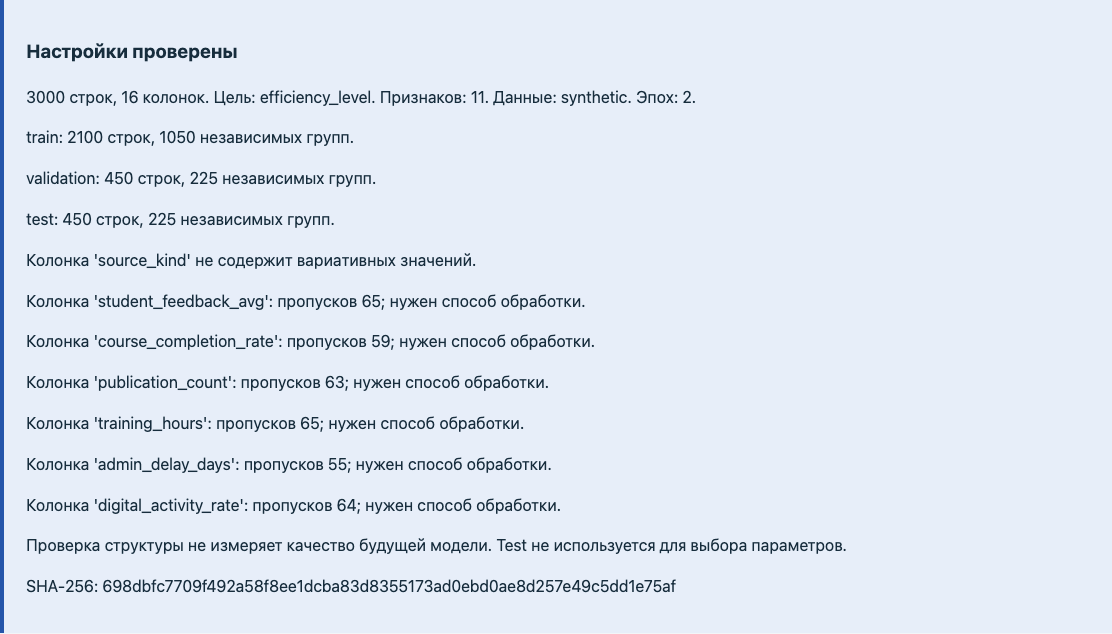
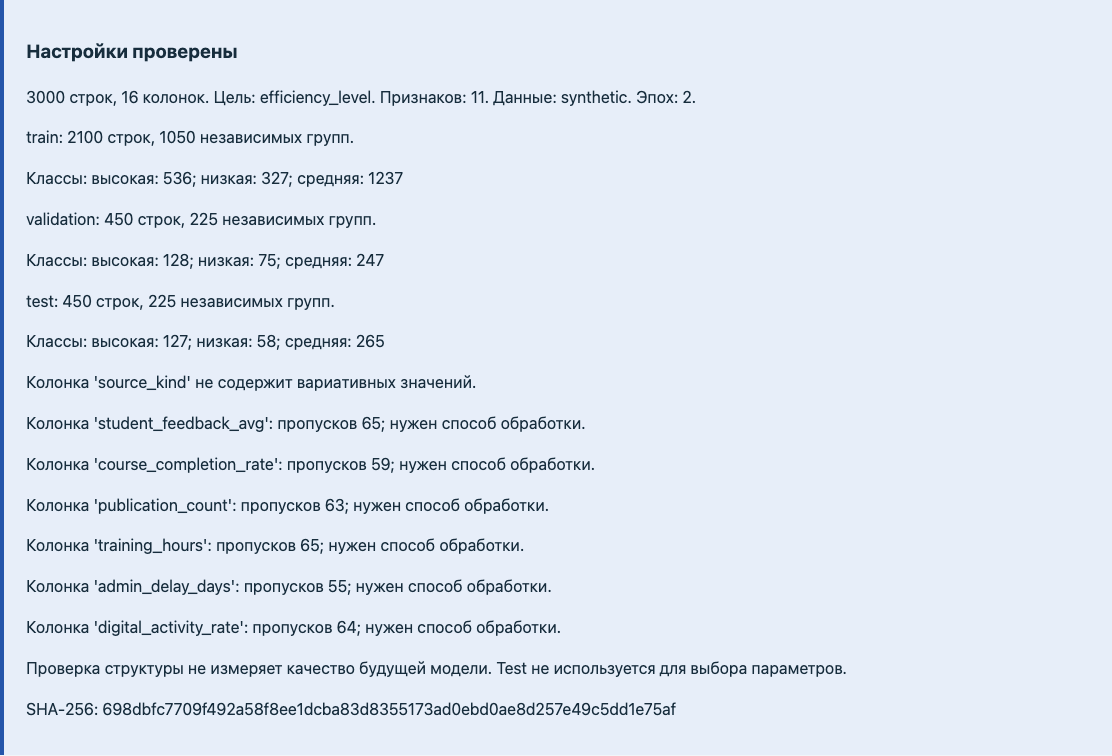
Проверить покрытие классов историю и управление местом в Chrome

diff --git a/university_analytics/web/static/app.css b/university_analytics/web/static/app.css
@@ -9,3 +9,5 @@
 .workspace>.panel{min-width:0}.panel{overflow-wrap:anywhere}#job-metrics{max-width:100%;overflow-x:auto}@media(max-width:800px){.workspace{grid-template-columns:minmax(0,1fr)}}
 
 #my-jobs p{display:flex;gap:12px;flex-wrap:wrap;align-items:center}
+#storage-panel label { display: flex; align-items: flex-start; gap: .6rem; }
+#storage-confirm { width: auto; flex: 0 0 auto; margin-top: .35rem; }

diff --git a/scripts/verify_browser.py b/scripts/verify_browser.py
@@ -83,6 +83,7 @@ def verify(app_python, output):
                     page.get_by_role('button',name='Проверить настройки',exact=True).click()
                     expect(page.locator('#preflight-result')).to_contain_text('Настройки проверены',timeout=30000)
                     assert 'train: 2100 строк' in page.locator('#preflight-result').inner_text()
+                    assert 'Классы:' in page.locator('#preflight-result').inner_text()
                     assert context.request.get(url+'/api/jobs').json()['jobs']==[]
                     checks.append('contract_and_split_preflight_without_job');shot('preflight-desktop.png','#preflight-result')
                     page.get_by_role('button',name='Начать обучение',exact=True).click()
@@ -146,11 +147,25 @@ def verify(app_python, output):
                                   'error':'Искусственная метаданная для проверки страниц, не результат обучения.',
                                   'progress':0,'epochs':2,'created_at':(datetime.now(timezone.utc)-timedelta(days=2,minutes=index)).isoformat()}
                         (directory/'status.json').write_text(json.dumps(contents))
+                    damaged_id=uuid.uuid4().hex;damaged=target/'.local/gui-jobs'/damaged_id;damaged.mkdir()
+                    (damaged/'status.json').write_text('{broken fixture')
+                    assert context.request.get(url+'/api/jobs/'+damaged_id).status==404
+                    assert (damaged/'status.json').read_text()=='{broken fixture'
+                    checks.append('damaged_metadata_preserved_without_breaking_history')
                     page.reload();expect(page.locator('#next-jobs')).to_be_visible(timeout=30000)
                     page.get_by_role('button',name='Более ранние',exact=True).click()
                     expect(page.locator('#my-jobs p')).to_have_count(2,timeout=30000)
                     expect(page.locator('#first-jobs')).to_be_visible()
                     checks.append('older_job_pages_with_21_explicit_metadata_fixtures')
+                    page.get_by_role('button',name='Проверить место',exact=True).click()
+                    expect(page.locator('#storage-summary')).to_contain_text('Экспериментов: 22',timeout=30000)
+                    assert page.locator('#storage-purge').is_disabled()
+                    page.locator('#storage-confirm').check();page.get_by_role('button',name='Очистить свою корзину',exact=True).click()
+                    expect(page.locator('#storage-summary')).to_contain_text('Удалено каталогов: 0',timeout=30000)
+                    assert not page.locator('#storage-confirm').is_checked()
+                    page.get_by_role('button',name='Проверить место',exact=True).click()
+                    expect(page.locator('#storage-summary')).to_contain_text('Экспериментов: 22',timeout=30000)
+                    checks.append('storage_accounting_and_confirmed_empty_trash_purge')
                     panel=page.get_by_role('heading',name='Мои эксперименты этой браузерной сессии',exact=True).locator('..')
                     panel.screenshot(path=str(output/'jobs-history-desktop.png'));screens.append('jobs-history-desktop.png')
                     page.set_viewport_size({'width':390,'height':844})

diff --git a/docs/ACCEPTANCE.md b/docs/ACCEPTANCE.md
@@ -13,3 +13,5 @@
 Chrome157 прошёл десять проверок, desktop1440/mobile390. Исправлен выход таблицы прогноза за границы мобильной сетки; метрики/результаты прокручиваются внутри доступных с клавиатуры блоков. Шесть снимков reports/local-visual-v1 просмотрены. Временные браузер, HTTP-источник, сервер и данные удаляются; пользовательские модели/сессии не затрагиваются. Это один браузер и симуляция, не полный аудит доступности или валидности оценки реальных людей.
 
 GUI-пакет Markdown/manifest и точное совпадение сохранённых JSON также проверены скачиванием вChrome; обновлённые области результатов просмотрены.
+
+24 ноября: preflight schema2 показывает распределение классов по train/validation/test, заранее отклоняет классы без обучающих примеров. Это структурная проверка, а не подбор по test. Повреждённые status.json/неизвестные состояния исключаются из интерфейса без удаления файлов; допустимый размер64КиБ. Для ручного разбора сначала сохраните копию каталога. Оценка места учитывает только корректные собственные состояния и обычные файлы; ссылки/повреждённые записи требуют ручного осмотра. Корзина очищается только явно с подтверждением, чужие и активные данные остаются.

diff --git a/docs/PROGRESS.md b/docs/PROGRESS.md
@@ -135,3 +135,5 @@ main.py без аргументов теперь запускает GUI; --check
 Ограниченное чтение64КиБ, проверка схемы/дат/метрик, сортировка времени в UTC; неизвестные поля не выдаются браузеру. Повреждённые файлы остаются на диске и не ломают историю.16 целевых тестов. История: 43 общих, 42 после основы, осталось 8 до50безосновы.
 
 Показ размеров своих результатов/корзины, явная CSRF-защищённая очистка только своей terminal-корзины; чужие, активные и повреждённые состояния не удаляются. Все100 тестов прошли. История: 44 общих, 43 после основы, осталось 7 до50безосновы.
+
+16 Chrome-проверок прошли:preflight с классами, завершённое обучение/отмена, повреждённая метаданная, место и подтверждённая очистка пустой корзины. Новые mobile/desktop области просмотрены. Python2495 AST/2772 непустых строк. История: 45 общих, 44 после основы, осталось 6 до50безосновы.

diff --git a/docs/CODE_SIZE.md b/docs/CODE_SIZE.md
@@ -1,5 +1,5 @@
 # Объём собственного Python-кода
 
-На23.11.2026:2349 AST-инструкций и2646 непустых строк без docstring. Команда: `.venv/bin/python scripts/code_size.py --output .local/code-size.json`. Пофайловый результат — reports/code-size-v6.json.
+На24.11.2026:2495 AST-инструкций и2772 непустых строк без docstring. Команда: `.venv/bin/python scripts/code_size.py --output .local/code-size.json`. Пофайловый результат — reports/code-size-v7.json.
 
 Считаются main.py и исходные Python-модули university_analytics. Исключены тесты, scripts, notebook, HTML, JavaScript, данные и сериализованные веса. Метод AST считает определения, управляющие и исполняемые инструкции; несколько инструкций на строке считаются отдельно. Это прозрачный технический подсчёт, который следует сверить с методикой проверки индивидуального задания. Количество строк не заменяет работоспособность и реальный датасет.
